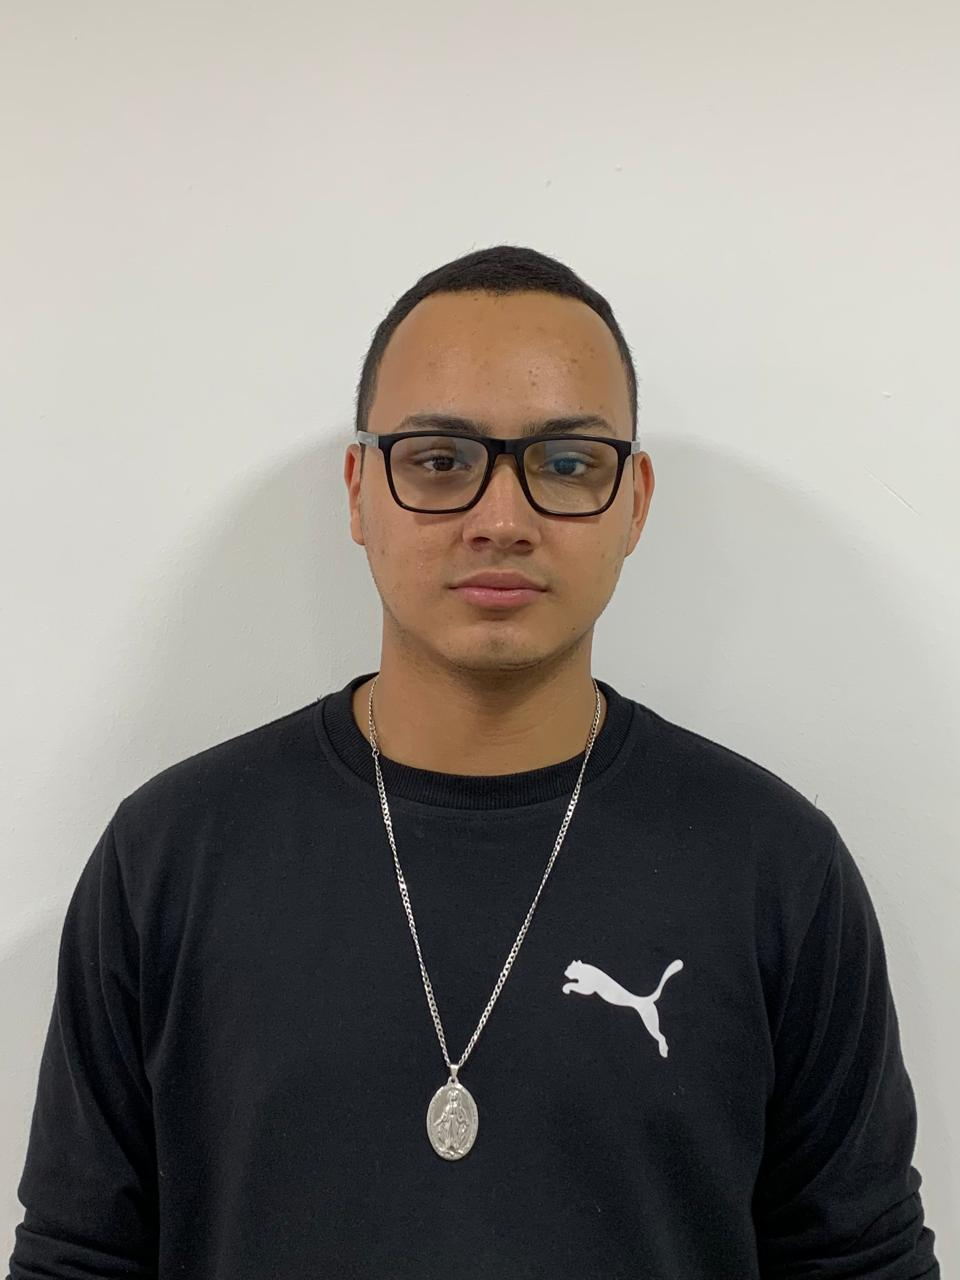
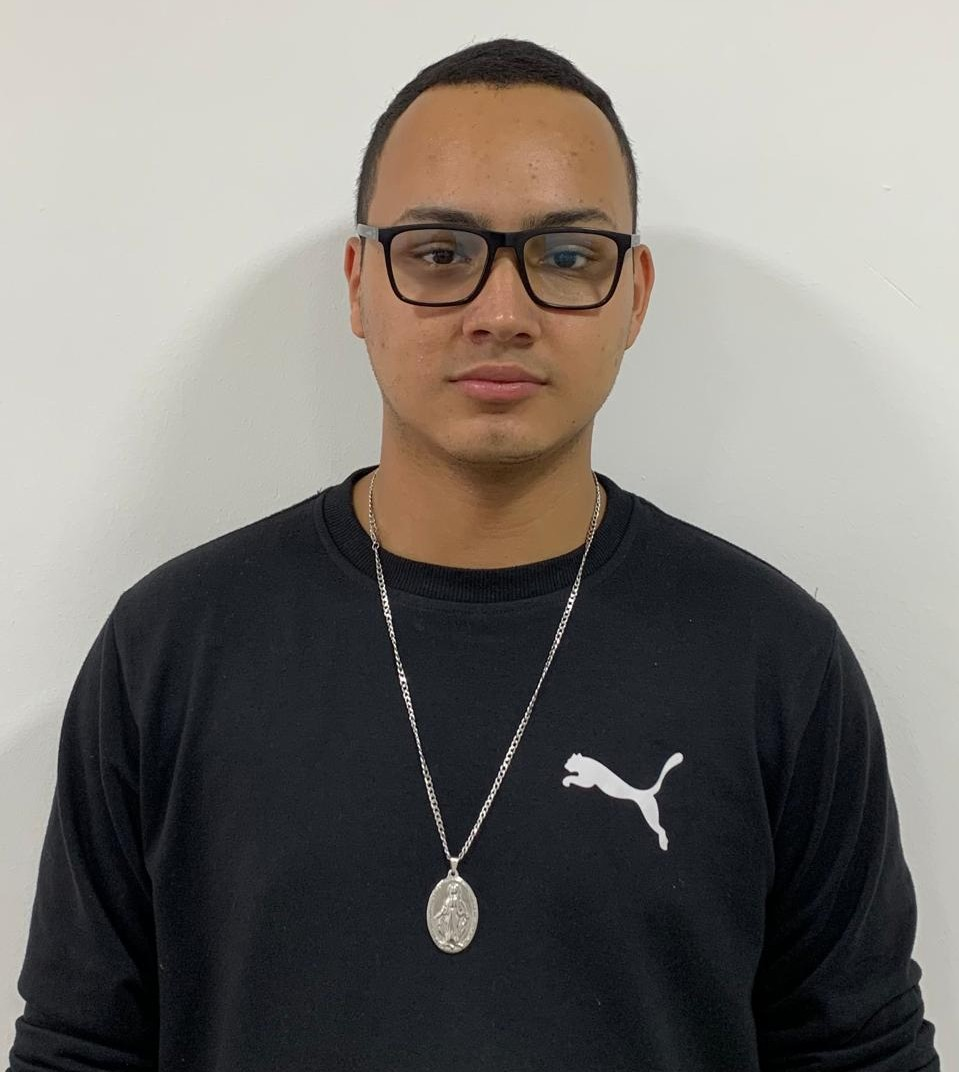
Y form and questions organisms were updated

diff --git a/src/app/components/organisms/Y-FormSendMail.tsx b/src/app/components/organisms/Y-FormSendMail.tsx
@@ -2,43 +2,39 @@
 
 import React from "react";
 import AppFormSendMail from "./FormSendMail";
-import BackgroundImg from "../molecules/BackgroundImg";
 import CardInfoImg from "../molecules/CardInfoImg";
 
 function YFormSendMail() {
   return (
-    <BackgroundImg className="bg-[url(/imgs/background/header.jpg)]">
-      <div
-        id="FormSendMail"
-        className="w-full flex flex-col justify-center p-4 gap-6 md:flex-row-reverse md:items-center md:h-full md:justify-evenly md:py-16 md:px-8 md:gap-16"
-      >
-        <div className="md:w-1/3">
-          <h4 className="text-center text-2xl text-primary py-4">
-            Reserva tu consultoria{" "}
-            <span className="font-bold block text-3xl">Totalmente Gratis</span>
-          </h4>
-          <AppFormSendMail className="w-full flex-col items-center" />
-        </div>
-        <div className="md:w-1/2 md:h-full">
-          <CardInfoImg
-            src="/imgs/pictures/EquipoReunion.jpeg"
-            alt="Imagen abogados sgm"
-          >
-            <h4 className="text-center text-2xl font-bold text-primary">
-              ¿Qué pasará cuando envíes el formulario?
-            </h4>
-            <ol type="1" className="text-justify">
-              <li>1. Un asesor recibirá tu solicitud.</li>
-              <li>
-                2. Un asesor se pondrá en contacto contigo para agendar una
-                cita.
-              </li>
-              <li>3. Recibirás una asesoría personalizada.</li>
-            </ol>
-          </CardInfoImg>
-        </div>
+    <div
+      id="FormSendMail"
+      className="w-full h-full flex flex-col justify-center p-4 gap-6 md:flex-row-reverse md:items-center md:h-full md:justify-evenly md:py-16 md:px-8 md:gap-16"
+    >
+      <div className="md:w-1/3 bg-secondary py-8 px-8">
+        <h4 className="text-center text-2xl text-primary py-4">
+          Reserva tu consultoria{" "}
+          <span className="font-bold block text-3xl">Totalmente Gratis</span>
+        </h4>
+        <AppFormSendMail className="w-full flex-col items-center" />
       </div>
-    </BackgroundImg>
+      <div className="md:w-1/2 md:h-[85vh]">
+        <CardInfoImg
+          src="/imgs/pictures/EquipoReunion.jpeg"
+          alt="Imagen abogados sgm"
+        >
+          <h4 className="text-center text-2xl font-bold text-primary">
+            ¿Qué pasará cuando envíes el formulario?
+          </h4>
+          <ol type="1" className="text-justify">
+            <li>1. Un asesor recibirá tu solicitud.</li>
+            <li>
+              2. Un asesor se pondrá en contacto contigo para agendar una cita.
+            </li>
+            <li>3. Recibirás una asesoría personalizada.</li>
+          </ol>
+        </CardInfoImg>
+      </div>
+    </div>
   );
 }
 

diff --git a/src/app/components/organisms/Questions.tsx b/src/app/components/organisms/Questions.tsx
@@ -12,11 +12,13 @@ function Questions() {
   return (
     <>
       <BackgroundImg className="bg-[url(/imgs/background/lawyer-environment.png)]">
-        <div id="FAQ" className="h-full flex flex-col p-4 md:p-8">
-          <Title>Tienes alguna pregunta? Nosostros te damos una solucion</Title>
+        <div id="FAQ" className="h-full flex flex-col p-4 md:px-8 md:py-10">
+          <Title>
+            Tienes alguna pregunta? <br /> Nosotros te damos una solucion
+          </Title>
           <div className="w-full flex flex-col gap-2 md:w-1/2 md:flex-1 md:justify-evenly">
             <Accordion className="w-full">
-              {questions.slice(0, 8).map((question, index) => (
+              {questions.slice(0, 7).map((question, index) => (
                 <AccordionItem
                   key={index}
                   aria-label="Accordion 1"

diff --git a/src/app/components/organisms/Navbar.tsx b/src/app/components/organisms/Navbar.tsx
@@ -17,7 +17,11 @@ export default function AppNavbar() {
   const [isMenuOpen, setIsMenuOpen] = useState(false);
 
   return (
-    <Navbar onMenuOpenChange={setIsMenuOpen} isBlurred={true}>
+    <Navbar
+      onMenuOpenChange={setIsMenuOpen}
+      isBlurred={true}
+      shouldHideOnScroll
+    >
       <NavbarContent>
         <NavbarMenuToggle
           aria-label={isMenuOpen ? "Close menu" : "Open menu"}
@@ -36,7 +40,7 @@ export default function AppNavbar() {
           <Link href="#">Inicio</Link>
         </NavbarItem>
         <NavbarItem>
-          <Link href="#">Sobre nosotros</Link>
+          <Link href="#nosotros">Sobre nosotros</Link>
         </NavbarItem>
         <NavbarItem>
           <Link href="#services">Servicios</Link>

diff --git a/src/app/components/molecules/CardInfoImg.tsx b/src/app/components/molecules/CardInfoImg.tsx
@@ -14,7 +14,7 @@ function CardInfoImg({ children, src, alt }: TypeCardInfoImg) {
         alt={alt}
         src={src}
         fill
-        className="invisible md:visible md:absolute md:object-cover"
+        className="invisible md:visible md:absolute md:object-cover md:object-right-bottom"
       />
       <div className="bg-white/80 flex flex-col justify-center items-center gap-4 p-4 text-black md:absolute md:bottom-6">
         {children}

diff --git a/src/app/components/organisms/Employees.tsx b/src/app/components/organisms/Employees.tsx
@@ -3,7 +3,10 @@ import SliderEmployees from "../molecules/SliderEmployees";
 
 function Employees() {
   return (
-    <div className="max-w-screen flex flex-col justify-center items-center gap-4 p-8 md:gap-8">
+    <div
+      id="nosotros"
+      className="max-w-screen flex flex-col justify-center items-center gap-4 p-8 md:gap-8"
+    >
       <div>
         <h2 className="text-xl">Juntos logramos más</h2>
       </div>

diff --git a/public/data/data.ts b/public/data/data.ts
@@ -64,7 +64,7 @@ export const employeesData: EmployeesType[] = [
     position: "Auxiliar Administrativo",
     email: "sgmconsultoressas@gmail.com",
     whatsapp: "+57314 6849180",
-    urlPicture: "",
+    urlPicture: "/imgs/pictures/Juliana.jpeg",
   },
   {
     name: "Mateo Barrientos Giraldo",

diff --git a/src/app/components/pages/TestPage.tsx b/src/app/components/pages/TestPage.tsx
@@ -1,10 +1,10 @@
 import React from "react";
-import ListServices from "../organisms/ListServices";
+import HomePage from "./HomePage";
 
 export default function TestPage() {
   return (
     <>
-      <ListServices />
+      <HomePage />
     </>
   );
 }

diff --git a/src/app/page.tsx b/src/app/page.tsx
@@ -1,11 +1,8 @@
-import HomePage from "./components/pages/HomePage";
 import TestPage from "./components/pages/TestPage";
 
 export default function Home() {
   return (
     <>
-      <HomePage />
-
       <TestPage />
     </>
   );
